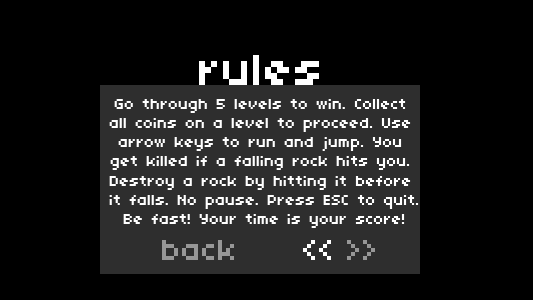
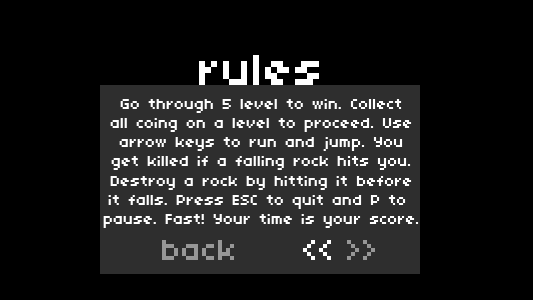
Ability to destroy rocks added. Moving platforms implemented. Menu improved. Graphics enhanced. Character animation redrawn. Numerous debugs

Changed region(s): [[0.1801, 0.33, 0.7805, 0.75], [0.7205, 0.51, 0.7505, 0.57], [0.6904, 0.45, 0.7505, 0.48]]

diff --git a/game.py b/game.py
@@ -4,10 +4,11 @@ Final project, Introduction to Computer Science, Fall 2012, NYUAD
 Oleg Grishin
 """
 
-import pygame, os
-import time
+import pygame, os, time
 from random import *
 from pygame.locals import *
+
+developer = False
 
 # Floor class handles collide events for the character to stay on the floor. Not visible
 
@@ -30,6 +31,39 @@ class Platform(pygame.sprite.Sprite):
         self.tech_sprite_lower = Floor(self.rect.width - 34,self.rect.left + 17,self.rect.top - 1)
         self.tech_sprite_upper = Floor(self.rect.width - 34,self.rect.left + 17,self.rect.top - 46)
         #dimensions of the character sprite + some space for falspeed
+
+#moving platforms - elevators
+#inheritance is not aplicable due to using sprites 
+class Elevator(pygame.sprite.Sprite):
+    def __init__(self, left, top, bottom, speed):
+        pygame.sprite.Sprite.__init__(self)
+        self.image = pygame.image.load('res/platform.png')
+        self.rect = self.image.get_rect()
+        self.rect.left = left
+        self.rect.top = bottom
+        self.limittop = top
+        self.limitbot = bottom
+        self.tech_sprite_lower = Floor(self.rect.width - 34,self.rect.left + 17,self.rect.top - 1)
+        self.tech_sprite_upper = Floor(self.rect.width - 34,self.rect.left + 17,self.rect.top - 46)
+        self.speed = speed
+        self.up = True
+        #dimensions of the character sprite + some space for falspeed
+
+    def update(self):
+        if self.rect.top < self.limittop:
+            self.up = False
+        if self.rect.top > self.limitbot:
+            self.up = True
+        if self.up:
+            self.rect.top -= self.speed
+            self.tech_sprite_lower.rect.top -= self.speed
+            self.tech_sprite_upper.rect.top -= self.speed
+        else:
+            self.rect.top += self.speed
+            self.tech_sprite_lower.rect.top += self.speed
+            self.tech_sprite_upper.rect.top += self.speed
+        
+        
 
 class Coin(pygame.sprite.Sprite):
     def __init__(self,left,top):
@@ -99,10 +133,13 @@ class Rock (pygame.sprite.Sprite):
             self.shake()
         if self.anticipated  in range (self.anticipation * 2 /3, self.anticipation):
             self.red ()
-        elif self.anticipated > self.anticipation and self.rect.top < 300:
+        elif self.anticipated > self.anticipation:
             self.fall()
         else:
             self.vy = 0
+
+        if self.rect.top > 300:
+            self.kill()
             
         self.anticipated += 1
         self.rect.top += self.vy
@@ -118,9 +155,9 @@ class Aladdin (pygame.sprite.Sprite):
         self.stay = pygame.image.load('res/aladdin.png')
         self.frames = [pygame.image.load('res/aladdin.png'),pygame.image.load('res/aladdin1.png'),\
                        pygame.image.load('res/aladdin2.png'),pygame.image.load('res/aladdin3.png'),\
-                       pygame.image.load('res/aladdin4.png'),pygame.image.load('res/aladdin5.png'),\
-                       pygame.image.load('res/aladdin6.png'),pygame.image.load('res/aladdin7.png'),\
-                       pygame.image.load('res/aladdin8.png')]
+                       pygame.image.load('res/aladdin4.png'),]
+        self.jump_img = pygame.image.load('res/jump.png')
+        self.jump_f = pygame.image.load('res/jump_f.png')
         self.frame = 0
         self.image = self.stay
 
@@ -141,7 +178,8 @@ class Aladdin (pygame.sprite.Sprite):
         self.jumping = False
         self.jumpable = False
         self.start = time.time()
-        self.t= time.time() - self.start
+        self.paused = time.time() - time.time() #to make it 0 in time format
+        self.t= time.time()
         self.text = pygame.font.Font('res/font/04B_03__.ttf', 14)
         self.text1 = pygame.font.Font('res/font/04B_03__.ttf', 10)
         self.text2 = pygame.font.Font('res/font/04B_03__.ttf', 96)
@@ -149,8 +187,8 @@ class Aladdin (pygame.sprite.Sprite):
         self.message = self.text.render('', False, (255,255,255))
         self.message1 = self.text.render('', False, (255,255,255))
         self.level = level
-        self.message2 = self.text.render('level 0' + str(level), False, (255,255,255))
-        self.message3 = self.text2.render('level 0' + str(level), False, (255,255,255))
+        self.message2 = self.text.render('level 0' + str(self.level), False, (255,255,255))
+        self.message3 = self.text2.render('level 0' + str(self.level), False, (255,255,255))
         Aladdin.coins = 0
         self.rocks = []
         self.globalrocks = game.rocks
@@ -159,9 +197,17 @@ class Aladdin (pygame.sprite.Sprite):
         self.rock_anticipation = rock_anticipation
         self.opacity = 255
         self.opacitywait = 0
+        self.pause = time.time()
+        self.lag = 0
 
+    def pause_t(self, flag):
+        if not flag:
+            self.pause = time.time()
+        else:
+            self.pause = time.time() - self.pause
+            self.paused += self.pause
         
-
+        
 
     def jump(self, sound):
         if self.jumpable:
@@ -174,9 +220,8 @@ class Aladdin (pygame.sprite.Sprite):
         if self.opacitywait < 15:
             self.opacitywait += 1
         else:
-            if self.opacity > 0:
-                self.message3.set_alpha(self.opacity)
-                self.opacity -= 9
+            self.message3.set_alpha(self.opacity)
+            self.opacity -= 9
     
         if self.jumping:
             if self.jumptimer < self.jumpduration:
@@ -195,29 +240,33 @@ class Aladdin (pygame.sprite.Sprite):
                 newgame(self.level+1)
             else:
                 self.warning = self.text.render('collect all coins first!', False, (255,0,0))
-        
-        if self.vy != 0 and self.vx >= 0:
-            self.image = self.frames[3]
+
+        self.lag += 1
+        self.lag %= 2
+        if self.vy != 0 and self.vx > 0:
+            self.image = self.jump_img
         elif self.vy != 0 and self.vx < 0:
-            self.image = self.frames[3]
+            self.image = self.jump_img
             self.image = pygame.transform.flip(self.image, True, False)
+        elif self.vy !=0 and self.vx == 0:
+            self.image = self.jump_f
         elif self.vx == 0:
             self.image = self.stay
-        elif self.vx > 0:
-            self.image = self.frames[self.frame]
+        elif self.vx > 0 and self.lag == 0:
+            self.image = self.frames[self.frame + 1]
             self.frame += 1
-            self.frame %= len(self.frames)
-        elif self.vx < 0:
-            self.image = self.frames[self.frame]
+            self.frame %= len(self.frames) - 1
+        elif self.vx < 0 and self.lag == 0:
+            self.image = self.frames[self.frame + 1]
             self.image = pygame.transform.flip(self.image, True, False)
             self.frame += 1
-            self.frame %= len(self.frames)
+            self.frame %= len(self.frames) - 1
         
         self.y += self.vy
         self.rect.left = self.x
         self.rect.top = self.y
         self.message = self.text.render(str(Aladdin.coins )+ '/5', False, (255,255,255))
-        self.t= time.time() - self.start
+        self.t= time.time() - self.start - self.paused
         self.rockfrequency += 1
         self.rockfrequency %= self.rock_frequency #lover in order to increase frequency of rocks falling
         if self.rockfrequency == 0:
@@ -242,11 +291,11 @@ class Game():
         self.character = pygame.sprite.Group(self.aladdin)
         
         #technical sprites for platforms
-        """
-        for item in platforms:
-            self.sprites.add(item.tech_sprite_lower,item.tech_sprite_upper)
-        """
-    
+        if developer:
+            for item in platforms:
+                self.sprites.add(item.tech_sprite_lower,item.tech_sprite_upper)
+            
+        
         self.floorsprites = pygame.sprite.Group(self.floor)
         self.stopsprites = pygame.sprite.Group(self.stops)
 
@@ -275,34 +324,33 @@ def newgame(level):
                         Platform (200,200),Platform (186, 120), Platform (266, 90)],\
                     [Coin(116,45), Coin(56,132), Coin(282,72), Coin (216,182), Coin (385,55)],\
                      40,50)
+        
         #to put coins on platforms: (x+16,y-18)  
         times = []
         
     if level == 2:
         times.append(round(game.aladdin.t,1))
         game = Game (level, [Platform (1, 138), Platform (48, 180),Platform (48, 99),\
-                     Platform (115, 170), Platform (115, 83), Platform (190, 82),\
-                     Platform (235, 112), Platform (286, 142), Platform (235, 172),\
-                     Platform (284, 200), Platform (340, 118), Platform (400, 90),\
-                     Platform (460, 120)],\
-                    [Coin(64,142), Coin(131,116), Coin(131,67), Coin (310,50), Coin (476,102)],\
+                             Platform (115, 170), Platform (115, 83), Platform (190, 82),\
+                             Platform (340, 118), Platform (400, 90),\
+                             Platform (460, 120), Elevator(265, 70, 230, 3)],\
+                     [Coin(64,142), Coin(131,116), Coin(131,67), Coin (310,50), Coin (476,82)],\
                      30, 40)
 
     if level == 3:
         times.append(round(game.aladdin.t,1))
-        game = Game (level, [Platform (0, 140), Platform (55, 75), Platform (120, 100), \
+        game = Game (level, [Platform (0, 140), Platform (55, 75), Platform (120, 100),\
                              Platform (195, 75), Platform (275, 95), Platform (350, 75),\
-                             Platform (430, 100), Platform (485, 135), Platform (445, 175)],\
-                    [Coin(16,122), Coin(136,82), Coin(291,77), Coin (475,35), Coin (75,155)],\
+                             Elevator(450, 70, 200, 4)],\
+                     [Coin(16,122), Coin(136,82), Coin(291,77), Coin (475,35), Coin (75,155)],\
                      25, 35)
         
     if level == 4:
         times.append(round(game.aladdin.t,1))
-        game = Game (level, [Platform (190, 190), Platform (245, 150), Platform (190, 120), \
-                             Platform (245, 83)],\
-                    [Coin(225,35), Coin(115,25), Coin(140,150), Coin (330,20), Coin (345,130)],\
-                     20, 35)
-
+        game = Game (level, [Elevator(220, 70, 220, 5)],\
+                     [Coin(225,35), Coin(115,25), Coin(140,150), Coin (330,20), Coin (345,130)],\
+                     20,35)
+        
     if level == 5:
         times.append(round(game.aladdin.t,1))
         game = Game (level, [Platform (129, 208), Platform (49, 186), Platform (100, 134), \
@@ -335,7 +383,7 @@ def main():
     screen = pygame.display.set_mode((width, height),0,32) #trying out 32 colors
     pygame.display.set_caption("Aladdin's Escape")
     bg = pygame.image.load('res/bg.png').convert()
-    screen.blit(bg, (0,0))
+    bg1 = pygame.image.load('res/pause.png').convert_alpha()
     coin = pygame.image.load('res/coin.png')
     coin = pygame.transform.scale(coin,(14, 14))
     timer = pygame.image.load('res/time.png')
@@ -344,6 +392,7 @@ def main():
 
 #game
     running = True
+    pause = False
 
 #to collect total time
     times = []
@@ -397,6 +446,7 @@ def main():
     over_s = pygame.mixer.Sound('res/over.aiff')
     win_s = pygame.mixer.Sound('res/win.wav')
     rock_s = pygame.mixer.Sound('res/rock.wav')
+    rock_s.set_volume(0.5)
     tick_s.set_volume(0.5) #adjusting loud sound
     
     
@@ -427,6 +477,16 @@ def main():
                 elif event.type == pygame.KEYDOWN:
                     if event.key == pygame.K_UP:
                         game.aladdin.jump(jump_s)
+                    if event.key == pygame.K_p:
+                        game.aladdin.pause_t(pause)
+                        if not pause:
+                            volume /= 2
+                            game.aladdin.message3 = game.aladdin.text2.render('', False, (255,255,255))
+                        else:
+                            if game.aladdin.opacity > 0:
+                                game.aladdin.message3 = game.aladdin.text2.render('level 0' + str(game.aladdin.level), False, (255,255,255))
+                            volume *= 2
+                        pause = not pause
                     if event.key == pygame.K_ESCAPE:
                         frame = "menu"
                         pygame.mixer.music.load('res/menu_bg.mp3')
@@ -467,6 +527,17 @@ def main():
                     game.aladdin.y = item.tech_sprite_lower.rect.top - game.aladdin.rect.height + 1
                     game.aladdin.jumpable = True
 
+                    if item.__class__.__name__ == 'Elevator':
+                        game.aladdin.vy = 0
+                        game.aladdin.jumpable = True
+                        if item.up:
+                            game.aladdin.y = item.tech_sprite_lower.rect.top - game.aladdin.rect.height + 1 - item.speed
+                        else:
+                            game.aladdin.y = item.tech_sprite_lower.rect.top - game.aladdin.rect.height + 1 + item.speed
+                            
+                        
+                    
+
             for item in game.coins:
                 if pygame.sprite.collide_rect(game.aladdin,item):
                     item.collect(coin_s)
@@ -476,29 +547,35 @@ def main():
 
                 
             #character group is made to make sure that the character is drawn on top of everything
-            screen.blit(bg, (0,0))
-            game.sprites.clear(screen,bg)
-            game.character.clear(screen,bg)
-            game.rocks.clear(screen,bg)
-            game.sprites.update()
-            game.character.update()
-            game.rocks.update()
-            game.sprites.draw(screen)
-            game.character.draw(screen)
-            game.rocks.draw(screen)
-            screen.blit(game.aladdin.message3, (94,75))
-            screen.blit(game.aladdin.message,(483,257))
-            screen.blit(game.aladdin.message1,(483,275))
-            screen.blit(game.aladdin.message2,(460,242))
-            screen.blit(game.aladdin.warning, (360, 150))
-            screen.blit(coin, (463,256))
-            screen.blit(timer, (463,273))
+
+                screen.blit(bg, (0,0))
+                game.sprites.clear(screen,bg)
+                game.character.clear(screen,bg)
+                game.rocks.clear(screen,bg)
+                game.sprites.draw(screen)
+                game.character.draw(screen)
+                game.rocks.draw(screen)
+                screen.blit(game.aladdin.message3, (85,75))
+                screen.blit(game.aladdin.message,(483,257))
+                screen.blit(game.aladdin.message1,(483,275))
+                screen.blit(game.aladdin.message2,(460,242))
+                screen.blit(game.aladdin.warning, (360, 150))
+                screen.blit(coin, (463,256))
+                screen.blit(timer, (463,273))
+
+            #no game updates if the game is paused
+            if not pause:
+                game.sprites.update()
+                game.character.update()
+                game.rocks.update()
+            else:
+                screen.blit(bg1,(0,0))
 
             #draw technical sprites for debugging
-            """
-            game.floorsprites.draw(screen)
-            game.stopsprites.draw(screen)
-            """
+            if developer:
+                game.floorsprites.draw(screen)
+                game.stopsprites.draw(screen)
+            
 
         if frame == "menu":
             
@@ -774,7 +851,7 @@ def main():
                 jump_s.set_volume(volume/5.0)
                 over_s.set_volume(volume/5.0)
                 win_s.set_volume(volume/5.0)
-                rock_s.set_volume(volume/5.0)
+                rock_s.set_volume(volume/10.0)
 
         if musicon == 0:
             pygame.mixer.music.set_volume(0.0)
